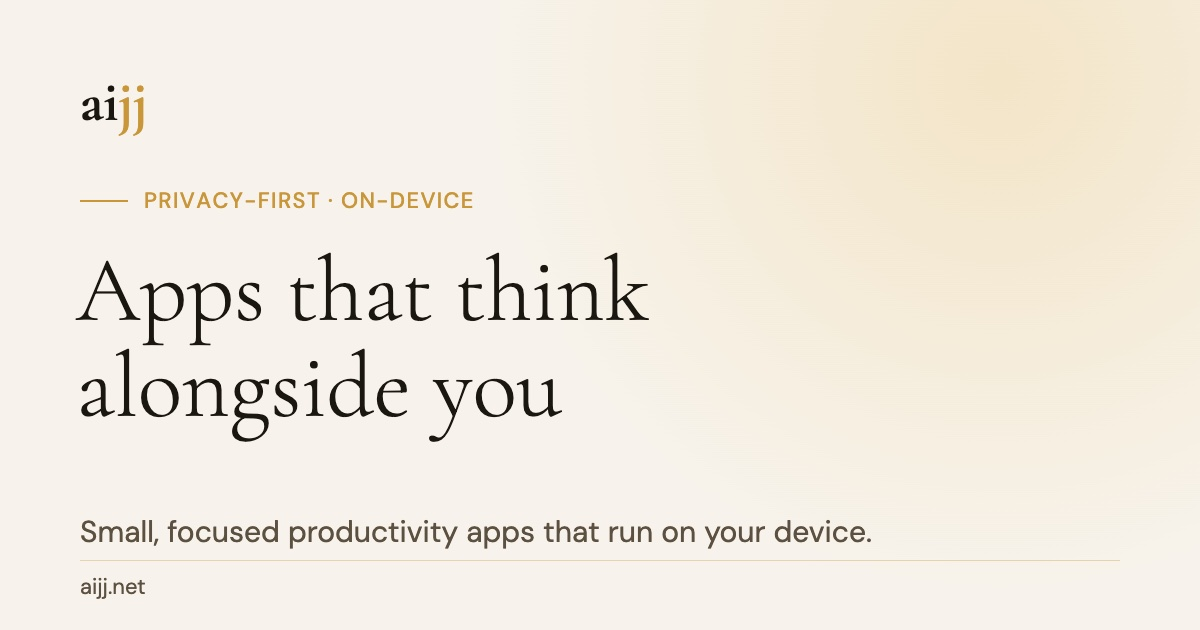
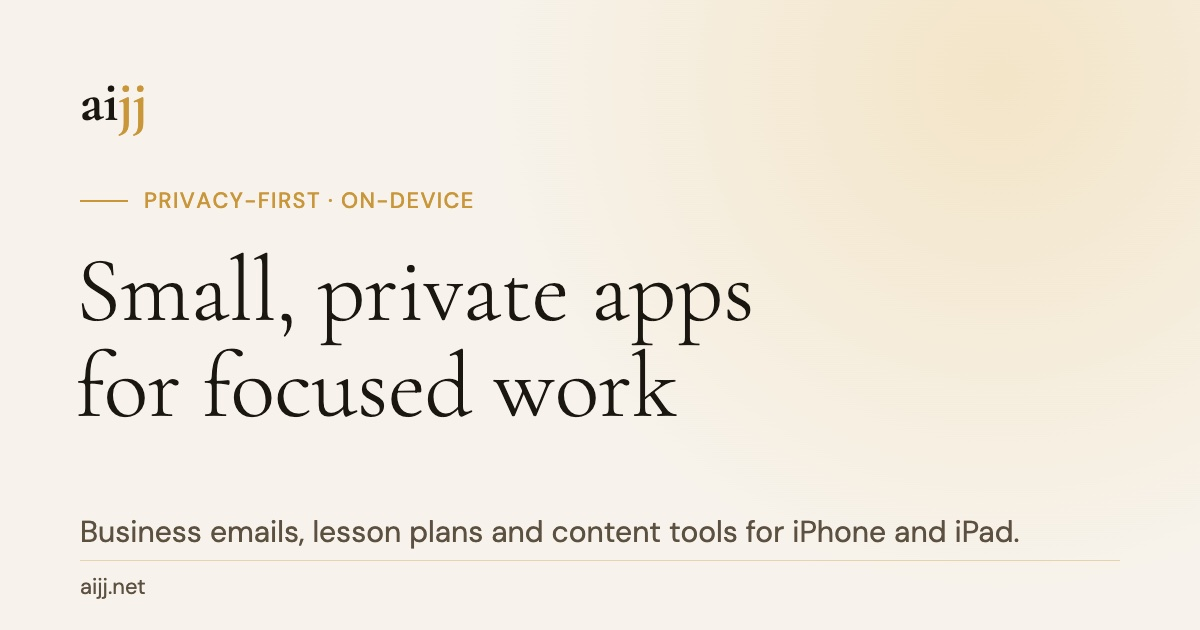
Add files via upload

Changed region(s): [[0.0617, 0.3921, 0.6475, 0.7238], [0.0617, 0.8143, 0.8633, 0.8746]]

diff --git a/blog.html b/blog.html
@@ -64,6 +64,7 @@
     .article-body h3:first-child { margin-top: 0; }
     .article-body p { font-size: 0.92rem; color: var(--mid); line-height: 1.8; margin-bottom: 16px; }
     .article-body p:last-child { margin-bottom: 0; }
+    .article-body a { color: var(--gold); text-decoration: underline; text-underline-offset: 2px; }
     .article-body blockquote { font-family: 'Cormorant Garamond', serif; font-size: 1.2rem; font-style: italic; color: var(--dark); border-left: 3px solid var(--gold); padding-left: 24px; margin: 24px 0; }
     .close-btn { display: inline-flex; align-items: center; gap: 6px; font-size: 0.78rem; color: var(--light); letter-spacing: 0.06em; text-transform: uppercase; cursor: pointer; margin-top: 24px; transition: color 0.2s; background: none; border: none; padding: 0; font-family: 'DM Sans', sans-serif; }
     .close-btn:hover { color: var(--gold); }
@@ -110,7 +111,7 @@
 
 <div class="page-hero">
   <div class="page-label">AIJJ Blog</div>
-  <h1>Thinking about<br><em>privacy</em>, AI,<br>and craft</h1>
+  <h1>Thinking about<br><em>privacy</em>, on-device<br>software and craft</h1>
   <p class="page-sub">Occasional thoughts on why we build the way we build — and what it means to put users first in the age of AI.</p>
 </div>
 
@@ -122,21 +123,21 @@
   <div class="article-card" onclick="toggleArticle('a1')">
     <div>
       <div class="article-tag">Privacy</div>
-      <div class="article-title">Why Your Data Never Leaves Your Phone — And Why It Matters More Than Ever</div>
-      <p class="article-excerpt">Every major AI company wants your data. We made a different choice. Here's why processing everything locally on your device isn't just a technical decision — it's a values decision.</p>
+      <div class="article-title">Why Our Apps Process Your Writing on Your Phone — And Why It Matters</div>
+      <p class="article-excerpt">Every major AI company wants your data. We made a different choice. Here's why processing what you type on your device isn't just a technical decision — it's a values decision.</p>
       <div class="article-meta">March 2026 · 5 min read</div>
     </div>
     <div class="article-num">01</div>
     <div class="article-body" id="a1">
       <h3>The cloud AI bargain</h3>
       <p>Every time you type a message into a cloud AI app, that text travels to a server somewhere. It gets processed, stored, potentially reviewed, and used to improve the model. You get a useful answer. The company gets your data. That's the implicit bargain — and most people don't realize they've made it.</p>
-      <p>We thought about this a lot when we started building AIJJ. The apps we wanted to make — tools for writing, thinking, working — would handle sensitive content. Resumes. Emails. Meeting notes. Personal reflections. The kind of content people wouldn't want floating around in a data center.</p>
-      <blockquote>"The best feature we could ship was never sending your data anywhere in the first place."</blockquote>
+      <p>We thought about this a lot when we started building AIJJ. The apps we wanted to make — tools for writing, thinking, working — would handle sensitive content. Business emails. Lesson plans. Drafts you haven't published yet. The kind of content people wouldn't want floating around in a data center.</p>
+      <blockquote>"The best feature we could ship was never sending your writing to our servers in the first place."</blockquote>
       <h3>Local processing is no longer a compromise</h3>
-      <p>For years, doing everything on the device meant accepting worse tools. That has changed. Modern phones are more than powerful enough to handle focused productivity tasks — building a resume, drafting a reply, structuring notes — entirely locally, with no server in the loop.</p>
-      <p>For focused, single-purpose tools like ours, local processing is more than good enough. A resume builder doesn't need a data center. It needs software that understands structure, follows instructions, and produces clean output. That's fully achievable on-device.</p>
+      <p>For years, doing everything on the device meant accepting worse tools. That has changed. Modern phones are more than powerful enough to handle focused productivity tasks — drafting a business email, planning a lesson, outlining a blog post — entirely locally, with no server in the loop.</p>
+      <p>For focused, single-purpose tools like ours, local processing is more than good enough. A lesson planner doesn't need a data center. It needs well-designed software that applies clear structures to what you enter and produces clean output. That's fully achievable on-device.</p>
       <h3>What this means for you</h3>
-      <p>When you use an AIJJ app, your content never leaves your device. There are no servers receiving your resume drafts. No logs of your email rewrites. No database of your meeting notes. The work happens in the same place your data lives — your phone. We have no way to see it, and no interest in collecting it.</p>
+      <p>When you use an AIJJ app, the text you type is processed and stored on your device. Our apps don't send it to our servers or to any third-party service. The work happens in the same place your data lives — your phone. We have no way to see it, and no interest in collecting it. Two things are worth knowing: if iCloud Backup is turned on, iOS may include app data in your device backup, which you control; and purchase and subscription status is handled through Apple and RevenueCat, as described in our <a href="/privacy">Privacy Policy</a>.</p>
       <p>That's not a limitation of our business model. It is our business model. Privacy by architecture, not by policy.</p>
       <button class="close-btn" onclick="event.stopPropagation(); toggleArticle('a1')">↑ Close article</button>
     </div>
@@ -146,8 +147,8 @@
   <div class="article-card" onclick="toggleArticle('a2')">
     <div>
       <div class="article-tag">Product Philosophy</div>
-      <div class="article-title">Small Tools Beat All-in-One Apps — Here's the Evidence</div>
-      <p class="article-excerpt">The productivity app market is dominated by giant platforms that try to do everything. We believe the opposite approach — one tool, one job, done well — consistently produces better results for users.</p>
+      <div class="article-title">Why We Build Small, Focused Apps Instead of All-in-One Platforms</div>
+      <p class="article-excerpt">The productivity app market is dominated by giant platforms that try to do everything. We believe the opposite approach — one tool, one job, done well — works better for many everyday tasks.</p>
       <div class="article-meta">March 2026 · 4 min read</div>
     </div>
     <div class="article-num">02</div>
@@ -158,9 +159,9 @@
       <h3>The focused tool advantage</h3>
       <p>A tool that does one thing can optimize for that one thing completely. The interface can be stripped to essentials. The engine can be tuned for one type of task. The onboarding can be instant. You open it, you use it, you close it.</p>
       <blockquote>"We don't build platforms. We build precise instruments."</blockquote>
-      <p>This is the philosophy behind AIJJ. Each app we build covers one job and the writing around it. Fairhand handles job applications. Gavelwork handles meetings. Slateroom handles lesson planning. They don't try to do each other's job. They don't come with dashboards, integrations, or notification systems. They open fast, do the work, and get out of your way.</p>
+      <p>This is the philosophy behind AIJJ. Each app we build covers one job and the writing around it. <a href="/apps/tactworks">Tactworks</a> handles business emails. <a href="/apps/slateroom">Slateroom</a> handles lesson planning. <a href="/apps/draftmill">Draftmill</a> handles content drafts, from blog outlines to video hooks. They don't try to do each other's job. They don't come with dashboards, integrations, or notification systems. They open fast, do the work, and get out of your way.</p>
       <h3>Better for the App Store ecosystem too</h3>
-      <p>There's a practical benefit as well. A focused app can rank for a specific search query in the App Store far more effectively than a Swiss Army knife app. "Resume builder" is a search term with clear intent. An all-in-one productivity suite ranks for nothing in particular.</p>
+      <p>There's a practical benefit as well. A focused app can rank for a specific search query in the App Store far more effectively than a Swiss Army knife app. "Lesson plan maker" is a search term with clear intent. An all-in-one productivity suite ranks for nothing in particular.</p>
       <p>Our matrix approach — building a suite of focused tools under one developer identity — lets each app compete on its own terms, while the AIJJ brand creates trust across the portfolio. It's a different way of thinking about product strategy, and so far, it's the one we believe in.</p>
       <button class="close-btn" onclick="event.stopPropagation(); toggleArticle('a2')">↑ Close article</button>
     </div>
@@ -170,8 +171,8 @@
   <div class="article-card" onclick="toggleArticle('a3')">
     <div>
       <div class="article-tag">Privacy</div>
-      <div class="article-title">Privacy-First in 2026: What It Actually Means to Build Without Collecting Data</div>
-      <p class="article-excerpt">"Privacy-first" has become a marketing phrase. We want to explain what it actually means in practice — technically and philosophically — when you build apps that genuinely don't collect user data.</p>
+      <div class="article-title">Privacy-First in 2026: What It Means to Build Without Collecting Your Content</div>
+      <p class="article-excerpt">"Privacy-first" has become a marketing phrase. We want to explain what it actually means in practice — technically and philosophically — when you build apps that don't collect what you write or your personal data.</p>
       <div class="article-meta">March 2026 · 6 min read</div>
     </div>
     <div class="article-num">03</div>
@@ -180,15 +181,15 @@
       <p>Almost every app claims to take privacy seriously. Privacy policies run to thousands of words. Cookie consent banners appear on every website. And yet the data collection continues — it's just disclosed now, in documents no one reads.</p>
       <p>Real privacy doesn't come from policies. It comes from architecture. The only way to truly protect user data is to never collect it in the first place. You can't leak what you don't have. You can't be compelled to hand over what doesn't exist on your servers.</p>
       <h3>What "on-device" really means</h3>
-      <p>When we say our apps run on-device, we mean exactly that. When you use the app, your input is processed by software running entirely within your device's CPU and memory. The result is computed locally and displayed to you. Nothing is transmitted.</p>
+      <p>When we say our apps run on-device, we mean exactly that. When you use the app, your input is processed by software running on your device. The result is computed locally and displayed to you. Your content is not sent to our servers or to any third-party service. Purchases are verified through Apple and RevenueCat, and if iCloud Backup is turned on, iOS may include app data in your device backup, as our <a href="/privacy">Privacy Policy</a> explains.</p>
       <blockquote>"We have no servers that receive your content. Not because we deleted it — because it was never sent."</blockquote>
       <p>This is architecturally different from a privacy policy that says "we don't sell your data." A company can commit to not selling data and still collect it, store it, analyze it internally, and expose it in a breach. We eliminate that entire risk surface by design.</p>
       <h3>The trade-offs we accept</h3>
       <p>This approach requires trade-offs. On-device tools can't draw on the scale of cloud infrastructure. They don't improve from harvesting user interactions the way cloud services do. We can't offer cross-device sync without building our own sync infrastructure (which we've chosen not to do).</p>
-      <p>We think these are the right trade-offs. The apps we build are tools, not platforms. They produce output you use elsewhere — a resume you send, an email you revise, a summary you share. The quality of that output needs to be good, not perfect. And for the tasks our apps handle, on-device software today is genuinely good.</p>
+      <p>We think these are the right trade-offs. The apps we build are tools, not platforms. They produce output you use elsewhere — an email you send, a lesson you teach, a post you publish. The quality of that output needs to be good, not perfect. And for the tasks our apps handle, on-device software today is genuinely good.</p>
       <h3>Why this matters more in 2026</h3>
       <p>AI has made the data collection problem significantly worse. Every interaction with a cloud AI is a detailed behavioral record. Your questions reveal your anxieties, your work, your relationships, your plans. That's a rich dataset for advertisers, insurers, employers, and governments — whether or not anyone intends it to be used that way.</p>
-      <p>Building tools that run locally is one of the few ways to offer genuine assistance without participating in mass behavioral surveillance. We think it's worth the engineering complexity. And we think users increasingly agree.</p>
+      <p>Building tools that run locally is one of the few ways to offer useful writing and planning tools without participating in mass behavioral surveillance. You can see what that looks like in <a href="/apps/tactworks">Tactworks</a>, <a href="/apps/slateroom">Slateroom</a> and <a href="/apps/draftmill">Draftmill</a>. We think it's worth the engineering complexity. And we think users increasingly agree.</p>
       <button class="close-btn" onclick="event.stopPropagation(); toggleArticle('a3')">↑ Close article</button>
     </div>
   </div>

diff --git a/index.html b/index.html
@@ -4,7 +4,7 @@
   <meta charset="UTF-8" />
   <meta name="viewport" content="width=device-width, initial-scale=1.0"/>
   <title>AIJJ — Privacy-First Productivity Apps</title>
-  <meta name="description" content="AIJJ LLC builds small, focused productivity apps where everything runs on your device: Tactworks, Slateroom, Draftmill and more. No cloud, no account, no data harvesting.">
+  <meta name="description" content="Tactworks, Slateroom and Draftmill: focused iPhone and iPad apps for business emails, lesson plans and content. What you type is processed on your device.">
   <link rel="canonical" href="https://aijj.net/" />
   <link rel="icon" href="/favicon.ico" sizes="any">
   <link rel="icon" type="image/png" sizes="32x32" href="/assets/icons/icon-32.png">
@@ -12,7 +12,7 @@
   <meta property="og:type" content="website">
   <meta property="og:site_name" content="AIJJ">
   <meta property="og:title" content="AIJJ — Privacy-First Productivity Apps">
-  <meta property="og:description" content="AIJJ LLC builds small, focused productivity apps where everything runs on your device: Tactworks, Slateroom, Draftmill and more. No cloud, no account, no data harvesting.">
+  <meta property="og:description" content="Tactworks, Slateroom and Draftmill: focused iPhone and iPad apps for business emails, lesson plans and content. What you type is processed on your device.">
   <meta property="og:url" content="https://aijj.net/">
   <meta property="og:image" content="https://aijj.net/assets/og/default.jpg">
   <meta property="og:image:width" content="1200">
@@ -127,10 +127,10 @@
 <section class="hero">
   <div class="hero-bg-circle"></div>
   <div class="hero-eyebrow">Independent · Privacy-first · On-device</div>
-  <h1>Apps that think<br>alongside <em>you</em></h1>
+  <h1>Small, private apps<br>for <em>focused</em> work</h1>
   <p class="hero-sub">
-    We build small, focused apps where everything runs on your device —
-    no servers, no data harvesting, no surveillance.
+    We build small, focused apps that process what you type on your device —
+    no account, no ads, no analytics SDKs.
     Tools that respect your privacy and sharpen your work.
   </p>
   <div class="hero-buttons">
@@ -230,7 +230,7 @@
       <div class="app-icon" style="background:linear-gradient(135deg, #F5E6C4, #E8C068)">📓</div>
       <div class="app-name">Emberlatch</div>
       <div class="app-tag">Private Journal</div>
-      <p class="app-desc">A private journal that stays on your phone, with Face ID lock and mood tracking. No cloud, no account.</p>
+      <p class="app-desc">A private journal designed for on-device writing and reflection. No account required.</p>
       <span class="app-status status-dev">In Development</span>
     </div>
   </div>
@@ -245,7 +245,7 @@
     <div class="principle">
       <div class="principle-num">01</div>
       <h3>Privacy by default</h3>
-      <p>On-device processing means your data never leaves your phone. No accounts required. No syncing to our servers. Your content is yours — permanently.</p>
+      <p>Our apps process and store what you type on your device and don't send it to our servers. No accounts required. If iCloud Backup is on, iOS may include app data in your backup, which you control.</p>
     </div>
     <div class="principle">
       <div class="principle-num">02</div>
